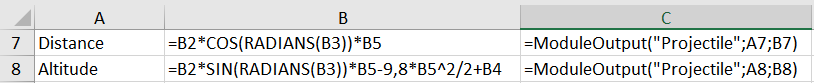
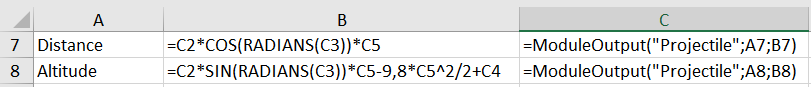
Update

diff --git a/README.md b/README.md
@@ -8,7 +8,7 @@ Instead of coding a VBA function or constructing a complex lambda expression, yo
 
 Sheet defined function can take input parameters, recalculate itself and return the results. Your model, once exposed as sheet defined function, can take one or more input arguments as individual cells or ranges, and return one or more results as individual values, ranges or arrays. SDF add-in also supports spill ranges and array functions.
 
-In this way, you can define and use many sheet defined functions simultaneously. They can be defined in one workbook and used in same or in other workbooks. 
+In this way, you can define and use many sheet defined functions simultaneously. They can be defined in one workbook and used in the same or in other workbooks. 
 
 ## Basic use
 
@@ -16,7 +16,7 @@ For example, let's develop a model which estimates the position (destination and
 
 ![Projectile model](/images/projectile1.png)
 
-We would like to use this model in other workbooks, but just its calculation "service" and not the structure. For that, we expose it as a sheet defined function with two special worksheet functions: ModuleInput() and ModuleOutput().
+We would like to use this model in other workbooks, but just its calculation "service" and not the structure itself. For that, we expose it as a sheet defined function with two special worksheet functions: ModuleInput() and ModuleOutput().
 
 ### How to define module inputs
 
@@ -68,6 +68,8 @@ In this way, when we will call the module to get the "Distance" as a result, it 
 ![Projectile model](/images/projectile3.png)
 
 Similar as above, we can use other cells to define names (e.g. in cells A7 we have names of model ouputs).
+
+Please note that we changed the model expressions in cells B7 and B8 to use input parameters from cells C2, C3, C4 and C5. These cells are regarded as input "slots" into our "Projectile" module, and expressions in cells B7 and B8 will take these parameters to calculate the results. We defined these input slots by using function ModuleInput() in them.
 
 ### How to use the module
 
